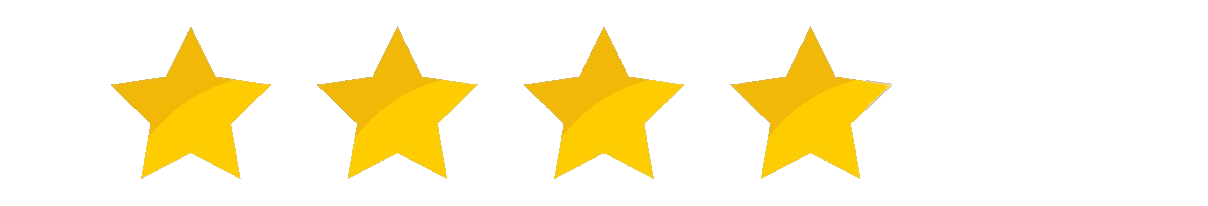
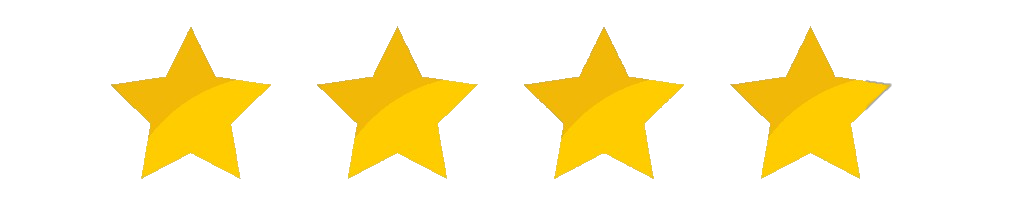
update

Changed region(s): [[0.0911, 0.1456, 0.8805, 0.8738]]

diff --git a/index.html b/index.html
@@ -5,7 +5,7 @@
   <meta charset="UTF-8" />
   <link rel="icon" type="image/x-icon" href="favcon.ico" />
   <meta name="viewport" content="width=device-width, initial-scale=1.0" />
-  <title>Main Page</title>
+  <title>A.K's Portfolio Page</title>
   <link rel="stylesheet" href="main.css" />
   <meta property="og:url" content="https://clgnturkler6.github.io" />
   <meta property="og:title" content="Abdullah Keser's Portfolio Page" />
@@ -110,15 +110,10 @@
   <br>
   <div id="skilldiv">
     <br />
-    <img id="skillimg" src="blender.jpg" alt="blender" />
-    <h2 id="skilltext">Blender</h2>
-    <p id="skilltext">
-      Blender is a 3D Design Software that allows it's users to create different types of models.
-    </p>
+    <img id="skillimg" src="cpp.png" alt="cpp" />
+    <h2 id="skilltext">C++</h2>
     <div id="linkdiv">
-      <a href="blenderportfoy.html">
-        <p id="skilltext">Click here to see my 3D Models</p>
-      </a>
+      <img id="rateimg" src="4outof5.png" alt="4of5">
       <br />
     </div>
   </div>

diff --git a/main.css b/main.css
@@ -196,3 +196,11 @@ div[id="skilldiv"]{
 
 
 }
+
+img[id="rateimg"]{
+
+  margin-left: auto;
+  margin-right: auto;
+  display: block;
+  width: 25%;
+}
